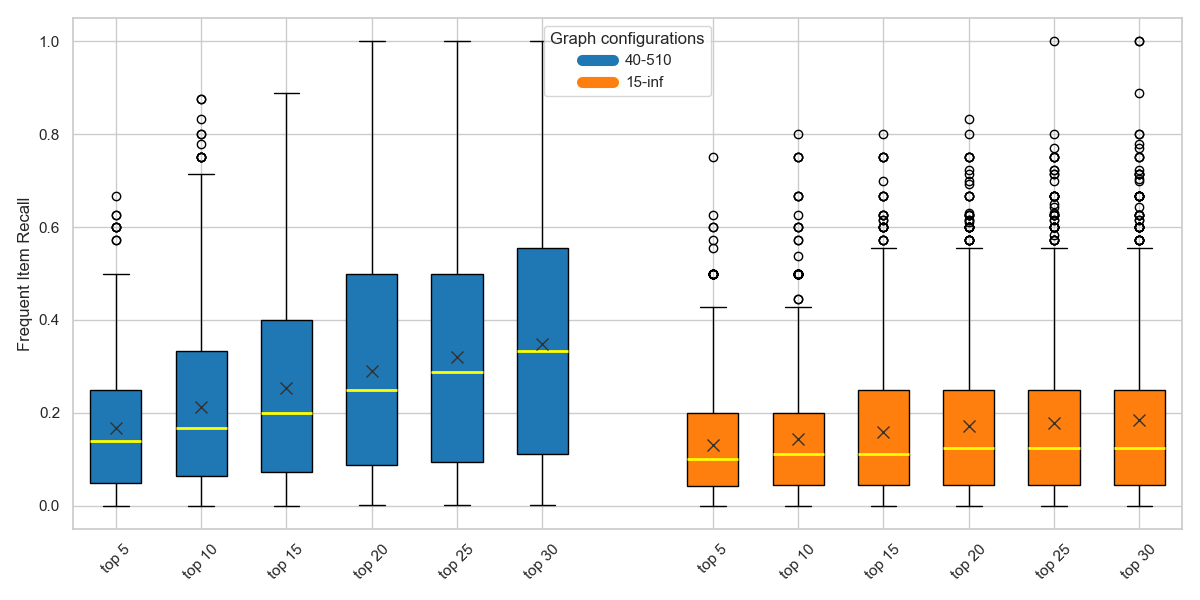
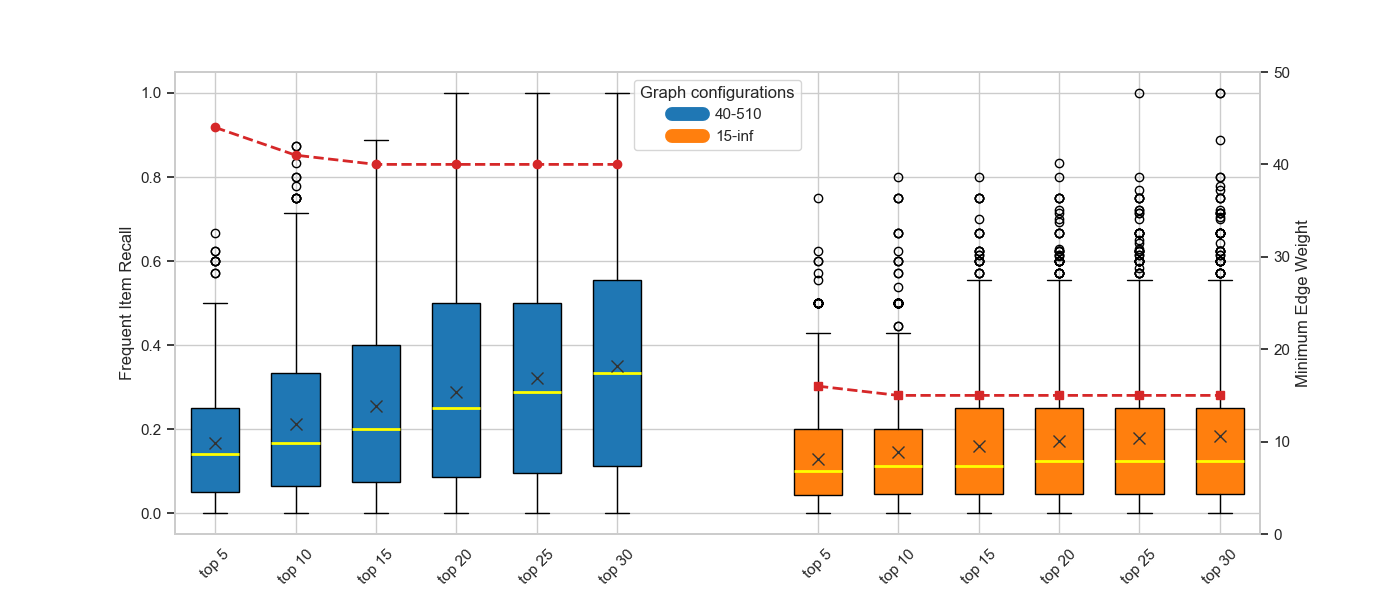
changed link prediction plot

diff --git a/src/plots_utils.py b/src/plots_utils.py
@@ -4,6 +4,7 @@ import pandas as pd
 import seaborn as sns
 import numpy as np
 from collections import Counter
+from graph import Graph
 import pickle
 sns.set(style="whitegrid")
 
@@ -365,7 +366,7 @@ def compare_execution_times(data, unw_data):
     plt.show()
     return
     
-
+    
 def extract_frequent_item_recall(files, unw_files):
     with open('../Results/Frequent Itemset Comparison/frequent_items.pkl', 'rb') as f:
         frequent_items = pickle.load(f)
@@ -378,7 +379,7 @@ def extract_frequent_item_recall(files, unw_files):
 
         with open(unw_files[i], 'rb') as f:
             unw_data = pickle.load(f)
-        graph_conf = files[i].split("_")[1].split(".")[0]
+        graph_conf = files[i].split("_")[2].split(".")[0]
         #print("graph_config", graph_conf)
         final_results[graph_conf] = { }
         unw_final_results[graph_conf] = { }
@@ -396,10 +397,8 @@ def extract_frequent_item_recall(files, unw_files):
             unw_final_results[graph_conf][t] = unw_results
     return final_results, unw_final_results
 
-def display_freq_item_recall(results, name):
+def display_freq_item_recall(results, name, min_edges):
     data = []
-    labels = []
-    group_labels = []
     t_labels = []
     positions = []
     colors = []
@@ -410,55 +409,111 @@ def display_freq_item_recall(results, name):
     }
     t_values = [5, 10, 15, 20, 25, 30]
     box_width = 0.6
-    gap = 1  # gap between groups
+    gap = 1.5  # slightly bigger gap
 
     pos = 0
-    for graph_conf in results:
-        for idx, t in enumerate(t_values):
+    config_names = list(results.keys())
+    config_pos = {}
+
+    for graph_conf in config_names:
+        config_pos[graph_conf] = []
+        for t in t_values:
             data.append(results[graph_conf][t])
             t_labels.append(f"top {t}")
-            group_labels.append(graph_conf)
             positions.append(pos)
             colors.append(config_colors[graph_conf])
+            config_pos[graph_conf].append(pos)
             pos += 1
-        pos += gap  # add gap after each group
+        pos += gap
 
-    # Plot
-    fig, ax = plt.subplots(figsize=(12, 6))
+    fig, ax = plt.subplots(figsize=(14, 6))
     box = ax.boxplot(data, positions=positions, widths=box_width, patch_artist=True, showmeans=True)
 
-    # Color boxes by configuration
+    # Style boxplot
     for patch, color in zip(box['boxes'], colors):
         patch.set_facecolor(color)
-
     for median in box['medians']:
         median.set_color('yellow')
         median.set_linewidth(2)
-
     for mean in box['means']:
         mean.set_marker('x')
         mean.set_markeredgecolor('#333333')
         mean.set_markersize(8)
 
-    # Set x-ticks for t_labels
     ax.set_xticks(positions)
     ax.set_xticklabels(t_labels, rotation=45, fontsize=11)
+    ax.set_ylabel("Frequent Item Recall", fontsize=12)
 
-    # Add group labels (graph configuration) at the center of each group
-    group_centers = []
-    group_names = []
-    start = 0
-    for graph_conf in results:
-        center = np.mean(positions[start:start+len(t_values)])
-        group_centers.append(center)
-        group_names.append(graph_conf)
-        start += len(t_values) + 1  # +1 for gap
-
-    # Legend
-    handles = [plt.Line2D([0], [0], color=color, lw=8) for color in config_colors.values()]
+    # Legend for box colors
+    handles = [plt.Line2D([0], [0], color=color, lw=10) for color in config_colors.values()]
     ax.legend(handles, config_colors.keys(), title="Graph configurations", loc='upper center')
 
-    ax.set_ylabel("Frequent Item Recall")
+    # Secondary y-axis
+    ax2 = ax.twinx()
+    all_min_edge_vals = []
+    config_styles = {
+        "40-510": {"color": "#d62728", "marker": "o"},
+        "15-inf": {"color": "#d62728", "marker": "s"},  # changed color and marker
+    }
+    for i, graph_conf in enumerate(config_names):
+        min_edge_vals = [min_edges[i][t] for t in t_values]
+        all_min_edge_vals.extend(min_edge_vals)
+        ax2.plot(
+            config_pos[graph_conf],
+            min_edge_vals,
+            marker=config_styles[graph_conf]["marker"],
+            color=config_styles[graph_conf]["color"],
+            linestyle='--',
+            linewidth=2,
+            markersize=6
+        )
+
+    ax2.set_ylabel("Minimum Edge Weight", fontsize=12)
+    ax2.set_ylim(0, 50)
+    ax2.grid(False)
+
+    # Remove second legend (already shown in box color)
+    # Improve layout
+    #plt.title(name, fontsize=14)
+    plt.savefig(f"../Results/Frequent Itemset Comparison/{name}.png")
     plt.tight_layout()
-    #plt.savefig(f"{name}.png")
     plt.show()
+
+# Compute the minimum edge weights for clusters obtained with specified thresholds.
+def compute_min_edge_weights(t_min, t_max, weighted="True"):
+    weight = "w" if weighted == "True" else "unw"
+    with open(f'../Results/Frequent Itemset Comparison/{weight}_clusters_{t_min}-{t_max}.pkl', 'rb') as f:
+        clusters = pickle.load(f)
+    file_path = f"../data/graph_{t_min}-{t_max}.pkl"
+    graph = Graph.load_graph(file_path, int(t_min), float(t_max) if t_max != "inf" else float('inf'))
+    dict_path = f"../data/products_dict_{t_min}-{t_max}.pkl"
+    graph.load_dicts(dict_path)
+    min_values = {}
+    for top_N in [5,10,15,20,25,30]:
+        total_min_weight = []
+        for cluster in clusters:
+            cluster = cluster[:top_N]
+            products_index = [graph.product_to_index[product] for product in cluster if product in graph.product_to_index]
+            sub_g = graph.subgraph(products_index)
+            min_weight = min(
+                (data.get('weight', 1) for u, v, data in sub_g.edges(data=True)),
+                default=None
+            )
+            if min_weight is None:
+                continue
+            total_min_weight.append(min_weight)
+        min_values[top_N] = int(np.mean(total_min_weight))
+  
+    return min_values
+
+def compute_min_weights_by_graph():
+    min_ts = [40, 15]
+    max_ts = [510, "inf"]
+    min_values = []
+    unw_min_values = []
+    for i in range(len(min_ts)):
+        print(f"t_min: {min_ts[i]}, t_max: {max_ts[i]}")
+        min_values.append(compute_min_edge_weights(min_ts[i], max_ts[i], "True"))
+        unw_min_values.append(compute_min_edge_weights(min_ts[i], max_ts[i], "False"))
+
+    return min_values, unw_min_values

diff --git a/src/display_plots.py b/src/display_plots.py
@@ -30,8 +30,11 @@ compare_originals(data, unw_data)
 compare_execution_times(data, unw_data)
 
 #Frequent Itemset Comparison Results
-files = ['../Results/Frequent Itemset Comparison/clusters_40-510.pkl', '../Results/Frequent Itemset Comparison/clusters_15-inf.pkl']
+files = ['../Results/Frequent Itemset Comparison/w_clusters_40-510.pkl', '../Results/Frequent Itemset Comparison/w_clusters_15-inf.pkl']
 unw_files = ['../Results/Frequent Itemset Comparison/unw_clusters_40-510.pkl', '../Results/Frequent Itemset Comparison/unw_clusters_15-inf.pkl']
 final_results, unw_final_results = extract_frequent_item_recall(files, unw_files)
-display_freq_item_recall(final_results, "freq_items_comp")
-display_freq_item_recall(unw_final_results, "unw_freq_items_comp")
+min_values, unw_min_values = compute_min_weights_by_graph()
+
+display_freq_item_recall(final_results, "w_freq_items_comp", min_values)
+display_freq_item_recall(unw_final_results, "unw_freq_items_comp", unw_min_values)
+
